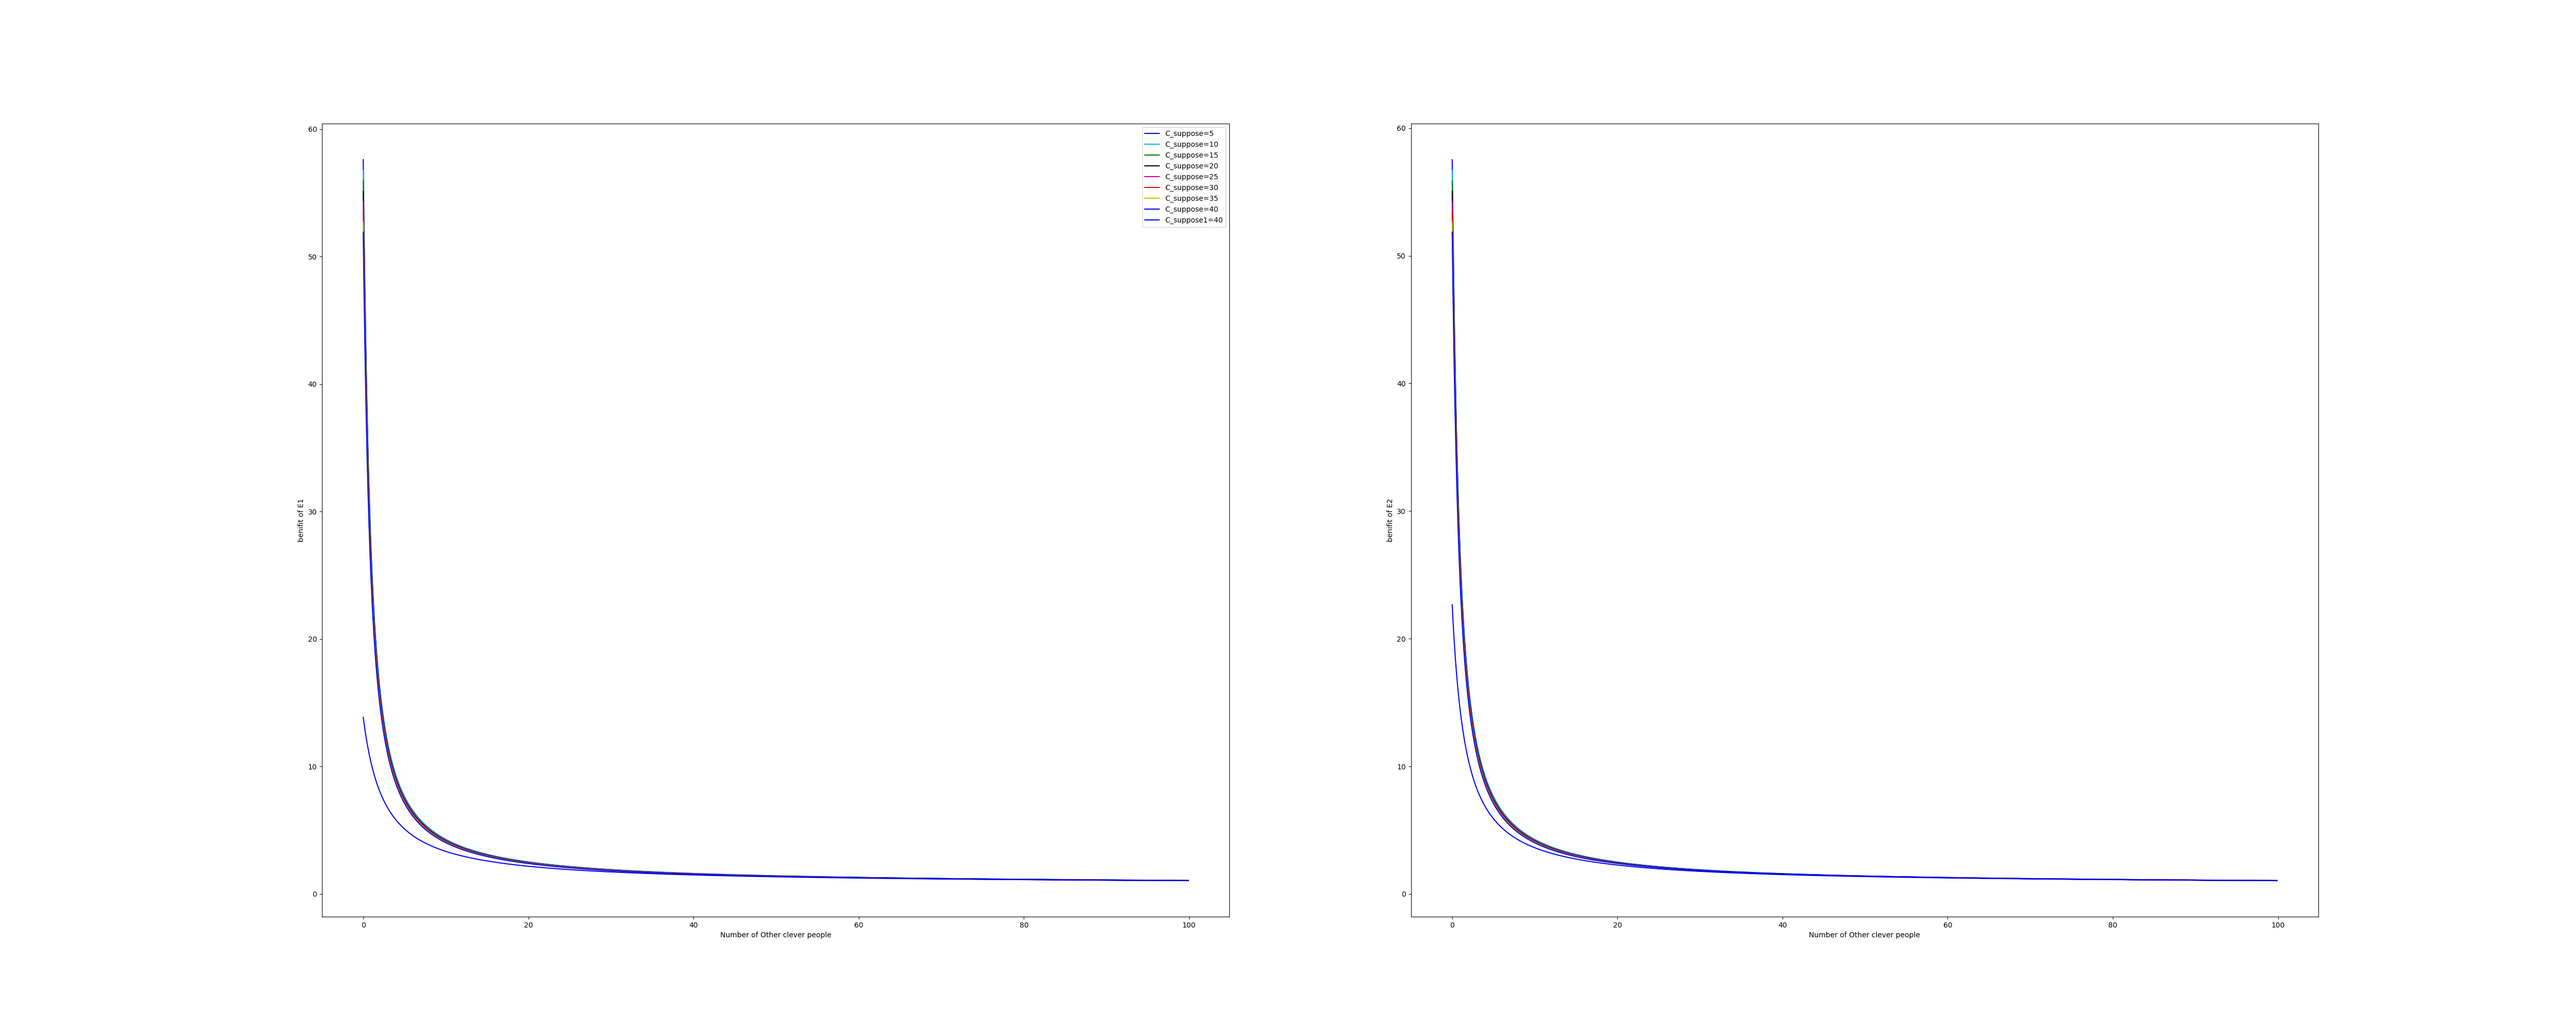
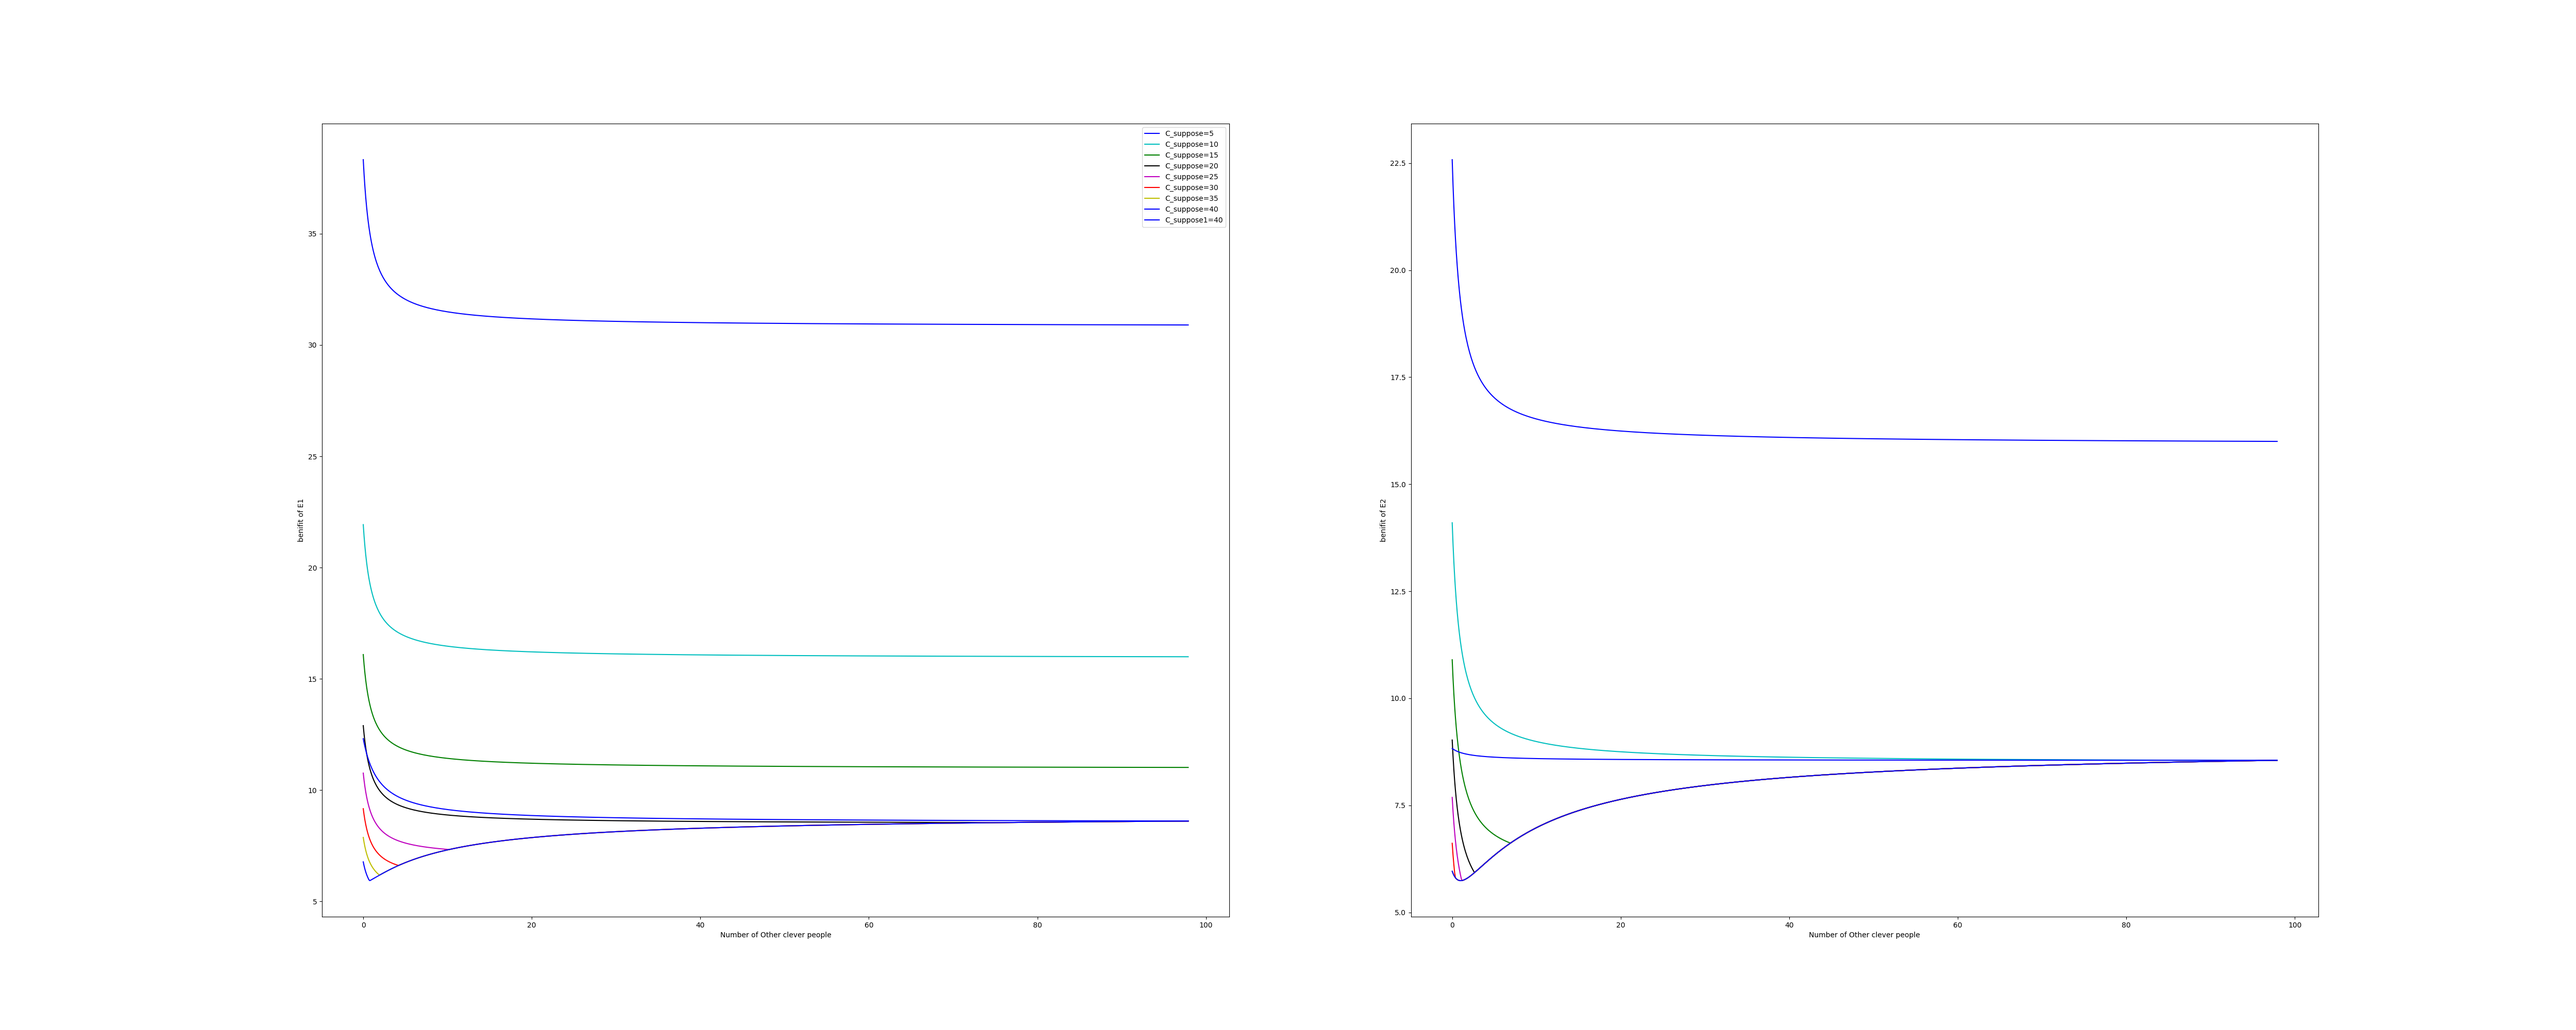
Add the fourth
增加了多zk的第二种情况

diff --git a/Code/python/main.py b/Code/python/main.py
@@ -1,7 +1,7 @@
 import matplotlib.pyplot as plt
 import numpy as np
 import math
-MAXX=100
+MAXX=98
 numm=1000
 #solve_second
 #input( A, B, C)
@@ -227,10 +227,10 @@ def compute1(type=0):
             else:
                 Lpercent.append(50*E2/E1)
 
-def compute(type=0):
+def compute3(type=0):
     if type == 0 :#足够多钱
-        X1 = solve_second((N + 2) * (N + 2), 2 * C * (N + 2) - (N + 1) * S,  - S * C + M)
-        X2 = solve_second((N + 1) * (N + 1), 2 * C * (N + 1) - N * S, - S * C + M)
+        X1 = solve_second((N + 2) * (N + 2), 2 * C * (N + 2) - (N + 1) * S,  C*C- S * C + M)
+        X2 = solve_second((N + 1) * (N + 1), 2 * C * (N + 1) - N * S, C*C- S * C + M)
         E1 = ((M / X1) + S) * X1 / ((N + 2) * X1 + C) - X1#平衡点运算的时候进行了变形，X_i实际上是X_i-b;
         E2 = ((M / X2) + S) * X2 / ((N + 1) * X2 + C) - X2
         #if (E2 < 0):
@@ -269,21 +269,21 @@ def compute(type=0):
     elif type == 1 :
         X1 = C_suppose
         X2 = 2 * C_suppose
-        X11 = solve_second((N + 2) * (N + 2), 2 * C * (N + 2) - (N + 1) * S, -S * C + M)
+        X11 = solve_second((N + 2) * (N + 2), 2 * C * (N + 2) - (N + 1) * S, C*C-S * C + M)
 
-        X22 = solve_second((N + 1) * (N + 1), 2 * C * (N + 1) - N * S, -S * C + M)
+        X22 = solve_second((N + 1) * (N + 1), 2 * C * (N + 1) - N * S, C*C-S * C + M)
         if (X1 > X11) :
             X1 = X11 
           #  return
         else:
             X11 = solve_second(N * N, 2 * (C + 2 * X1) * N - (N - 1) * S,
-				 - S * (C + 2 * X1) + M)
+				 (C + 2 * X1)*(C + 2 * X1)- S * (C + 2 * X1) + M)
         if (X2 > X22) :
             X2 = X22 
            # return
         else:
             X22= solve_second(N * N, 2 * (C + X2) * N - (N - 1) * S,
-				 - S * (C + X2) + M)
+				 (C + X2)*(C + X2)- S * (C + X2) + M)
         E1 = (M  + S * X1) / (N * X11 + C + 2 * X1) - X1 
         E2 = (M  + S* X2) / (N * X22 + C + X2) - X2
         if(E1<=0):
@@ -305,10 +305,51 @@ def compute(type=0):
             # print(E22)
         #if (E2 < 0):   
             #return
+        print("C="+str(C)+" and X1="+str(X1)+" and x2="+str(X2)+" and x11="+str(X11)+" and x22="+str(X22)+" and E1="+str(E1)+" and E2="+str(E2))
         LX1.append(X1)
         LX2.append(X2)
         LX11.append(X11)
         LX22.append(X22)
+        LE1.append(E1)
+        LE2.append(E2)
+        if(X1==0):
+            Lpercent1.append(100)
+        else:
+            Lpercent1.append(E1*100/X1)
+        if(X2==0):
+            Lpercent2.append(100)
+        else:
+            Lpercent2.append(E2*100/X2)
+        if(X1 ==0 ):
+            if(X2==0):    
+                Lpercent.append(100)
+            else:
+                Lpercent.append(200)
+        else:
+            if(50*E2/E1>200):
+                Lpercent.append(200)
+            else:
+                Lpercent.append(50*E2/E1)
+
+def compute(type=0):
+    if type == 0 :#足够多钱
+        X1 = solve_second((N+2)*(N+2)+(2*N+3)*S, 2 * C * (N + 2) - (N + 1) * M+2*S*C,  C*C-C*M)
+        X2 = solve_second((N+1)*(N+1)+(2*N+1)*S, 2 * C * (N + 1) - (N) * M+2*S*C,  C*C-C*M)
+        E1 = (M - S*X1) * X1 / ((N + 2) * X1 + C) - X1#平衡点运算的时候进行了变形，X_i实际上是X_i-b;
+        E2 = (M - S*X2) * X2 / ((N + 1) * X2 + C) - X2
+        #if (E2 < 0):
+         #   return
+        #print("M=%.0lf,C=%.0lf(%.0lf),b=%.0lf\n", M, C, C / C_average, b)
+        if(E1<=0):
+            X1=0
+            E1 = 0
+            X11=0
+        if(E2<=0):
+            X2=0
+            E2 =0
+            X22=0
+        LX1.append(X1)
+        LX2.append(X2)
         LE1.append(E1)
         LE2.append(E2)
         if(X1==0):
@@ -329,10 +370,76 @@ def compute(type=0):
                 Lpercent.append(200)
             else:
                 Lpercent.append(50*E2/E1)
-
-#b = 1; C = 19 * 98; C_suppose = 20; total_limit = 3000; C_average = 19;M = 2040
+    elif type == 1 :
+        X1 = C_suppose
+        X2 = 2 * C_suppose
+        X11 = solve_second((N+2)*(N+2)+(2*N+3)*S, 2 * C * (N + 2) - (N + 1) * M+2*S*C,  C*C-C*M)
+        X22 = solve_second((N+1)*(N+1)+(2*N+1)*S, 2 * C * (N + 1) - (N) * M+2*S*C,  C*C-C*M)
+        if (X1 > X11) :
+            X1 = X11 
+          #  return
+        else:
+            X11 = solve_second(N*N+(2*N-1)*S, 2 * (C+2*X1) * (N) - (N - 1) * M+2*S*(C+2*X1), 
+                                (C+2*X1)*(C+2*X1)-(C+2*X1)*M)
+        if (X2 > X22) :
+            X2 = X22 
+           # return
+        else:
+            X22= solve_second(N*N+(2*N-1)*S, 2 * (C+X2) * (N) - (N - 1) * M+2*S*(C+X2), 
+                                (C+X2)*(C+X2)-(C+X2)*M)
+        E1 = (M  - S * X1)*X1 / (N * X11 + C + 2 * X1) - X1 
+        E2 = (M  - S* X2) *X2/ (N * X22 + C + X2) - X2
+        if(E1<=0):
+            X1=0
+            E1 = 0
+            X11=0
+        if(E2<=0):
+            X2=0
+            E2 =0
+            X22=0
+            # print("WHy! ",end="")
+            # print("E1= ",end="")
+            # print(E1,end="")
+            # print("E2= ",end="")
+            # print(E2,end="")
+            # print("E11= ",end="")
+            # print(E11,end="")
+            # print("E22= ",end="")
+            # print(E22)
+        #if (E2 < 0):   
+            #return
+        print("C="+str(C)+" and X1="+str(X1)+" and x2="+str(X2)+" and x11="+str(X11)+" and x22="+str(X22)+" and E1="+str(E1)+" and E2="+str(E2))
+        LX1.append(X1)
+        LX2.append(X2)
+        LX11.append(X11)
+        LX22.append(X22)
+        LE1.append(E1)
+        LE2.append(E2)
+        if(X1==0):
+            Lpercent1.append(100)
+        else:
+            Lpercent1.append(E1*100/X1)
+        if(X2==0):
+            Lpercent2.append(100)
+        else:
+            Lpercent2.append(E2*100/X2)
+        if(X1 ==0 ):
+            if(X2==0):    
+                Lpercent.append(100)
+            else:
+                Lpercent.append(200)
+        else:
+            if(50*E2/E1>200):
+                Lpercent.append(200)
+            else:
+                Lpercent.append(50*E2/E1)
 #b = 1; C = 19 * 98; C_suppose = 20; total_limit = 3000;S = 2100; M = 900
-b=1;C=20*98;C_suppose=20;total_limit=3000;S=400;M=20*(40800/19-S)
+                
+#b = 1; C = 19 * 98; C_suppose = 20; total_limit = 3000; C_average = 19;M = 2040
+
+#b=1;C=20*98;C_suppose=20;total_limit=3000;S=2000;M=20*(40800/19-S)
+
+b=1;C=20*98;C_suppose=20;total_limit=3000;S=0.1;M=(40800/19-20*S)
 mycolor=["b","c","g","k","m","r","y"]
 print("MX/(X-b)  very rich\n")
 plt.figure(1)
@@ -358,7 +465,7 @@ plt.subplot(1,2,2)
 plt.xlabel("Number of Other clever people")
 plt.ylabel("benifit percent of E2")
 for j in range(8):
-    C_suppose=11+j
+    C_suppose=5*(j+1)
     clear()
     for i in LN:
         N = i; C = (98 - i) * 19
@@ -400,23 +507,23 @@ plt.plot(LN,Lpercent2,color='b',label="C_suppose1="+str(C_suppose))
 
 
 plt.figure(1)
-plt.savefig("./new example3_detail tempetation.png")
+plt.savefig("./new example4_detail tempetation.png")
 
 plt.figure(2)
-plt.savefig("./new example3_detail benifit.png")
+plt.savefig("./new example4_detail benifit.png")
 
 plt.figure(3)
-plt.savefig("./new example3_detail benifit percent.png")
+plt.savefig("./new example4_detail benifit percent.png")
 
 
 # plt.figure(1)
-# plt.savefig("./new example3_simple tempetation.png")
+# plt.savefig("./new example4_simple tempetation.png")
 
 # plt.figure(2)
-# plt.savefig("./new example3_simple benifit.png")
+# plt.savefig("./new example4_simple benifit.png")
 
 # plt.figure(3)
-# plt.savefig("./new example3_simple benifit percent.png")
+# plt.savefig("./new example4_simple benifit percent.png")
 
 
 # plt.figure(4)

diff --git a/latex/main.tex b/latex/main.tex
@@ -200,6 +200,9 @@ Now we talked about only use proof
 \par We know $P_i(x)=A_i$.
 \par $E(income_1)=C(A_1)\frac{A_1}{\sum A_i}-A_1$
 \par $E^{'}(income_1)=C^{'}(A_1)\frac{A_1}{\sum A_i}+C(A_1)\frac{\sum_{i\ne1}A_i}{(\sum A_i)^2}-1$
+\par Goal 1: stop cooperation
+$C(A_1+A_2)(A_1+A_2)<C(A_1)A_1+C(A_2)(A_2)$
+So 
 \subsection{Baseline 1: $C(X)=\frac{M}{X}+S$}
 We have $E(income_1)=\frac{M}{\sum A_i}+A_i*(\frac{S}{\sum A_i}-1)$
 \par $E^{'}(income_1)= -\frac{M}{(\sum A_i)^2}+\frac{S}{\sum A_i}-1-A_i\frac{S}{(\sum A_i)^2}$
@@ -212,11 +215,19 @@ We have $E(income_1)=\frac{M}{\sum A_i}+A_i*(\frac{S}{\sum A_i}-1)$
 \end{equation}
 Similarly, we know 
 $((N+2)X+C)^2-S((N+1)X+C)+M=0$
-$(N+2)^2X^2+(2C(N+2)-(N+1)S)+M-CS=0$
+$(N+2)^2X^2+(2C(N+2)-(N+1)S)X+C^2+M-CS=0$
 cooperate then
 $N->N-1$
 %We ask A_average=20,期望收益满足M/20 +S=40800/19
 %我们取S=2000;结果参见example3
+\subsection{Baseline 2: $C(X)=M-SX$}
+\par Then $E(income_1)=(-SA_1+M)\frac{A_1}{\sum A_i}-A_1$ 
+\par $E^{'}(income_1)=-\frac{SA_1}{\sum A_i}+\frac{\sum_{i\ne1}A_i}{(\sum A_i)^2}(-SA_1+M)-1$
+So $(S+1)X^2+2(S+1)CX+C^2-CM\le 0(C=\sum_{i\ne 1}A_i)$
+So
+So as long as $M>\sum_{i\ne1} A_i$, all user will try their best.
+So $1$
+
 \end{document}
 
 
